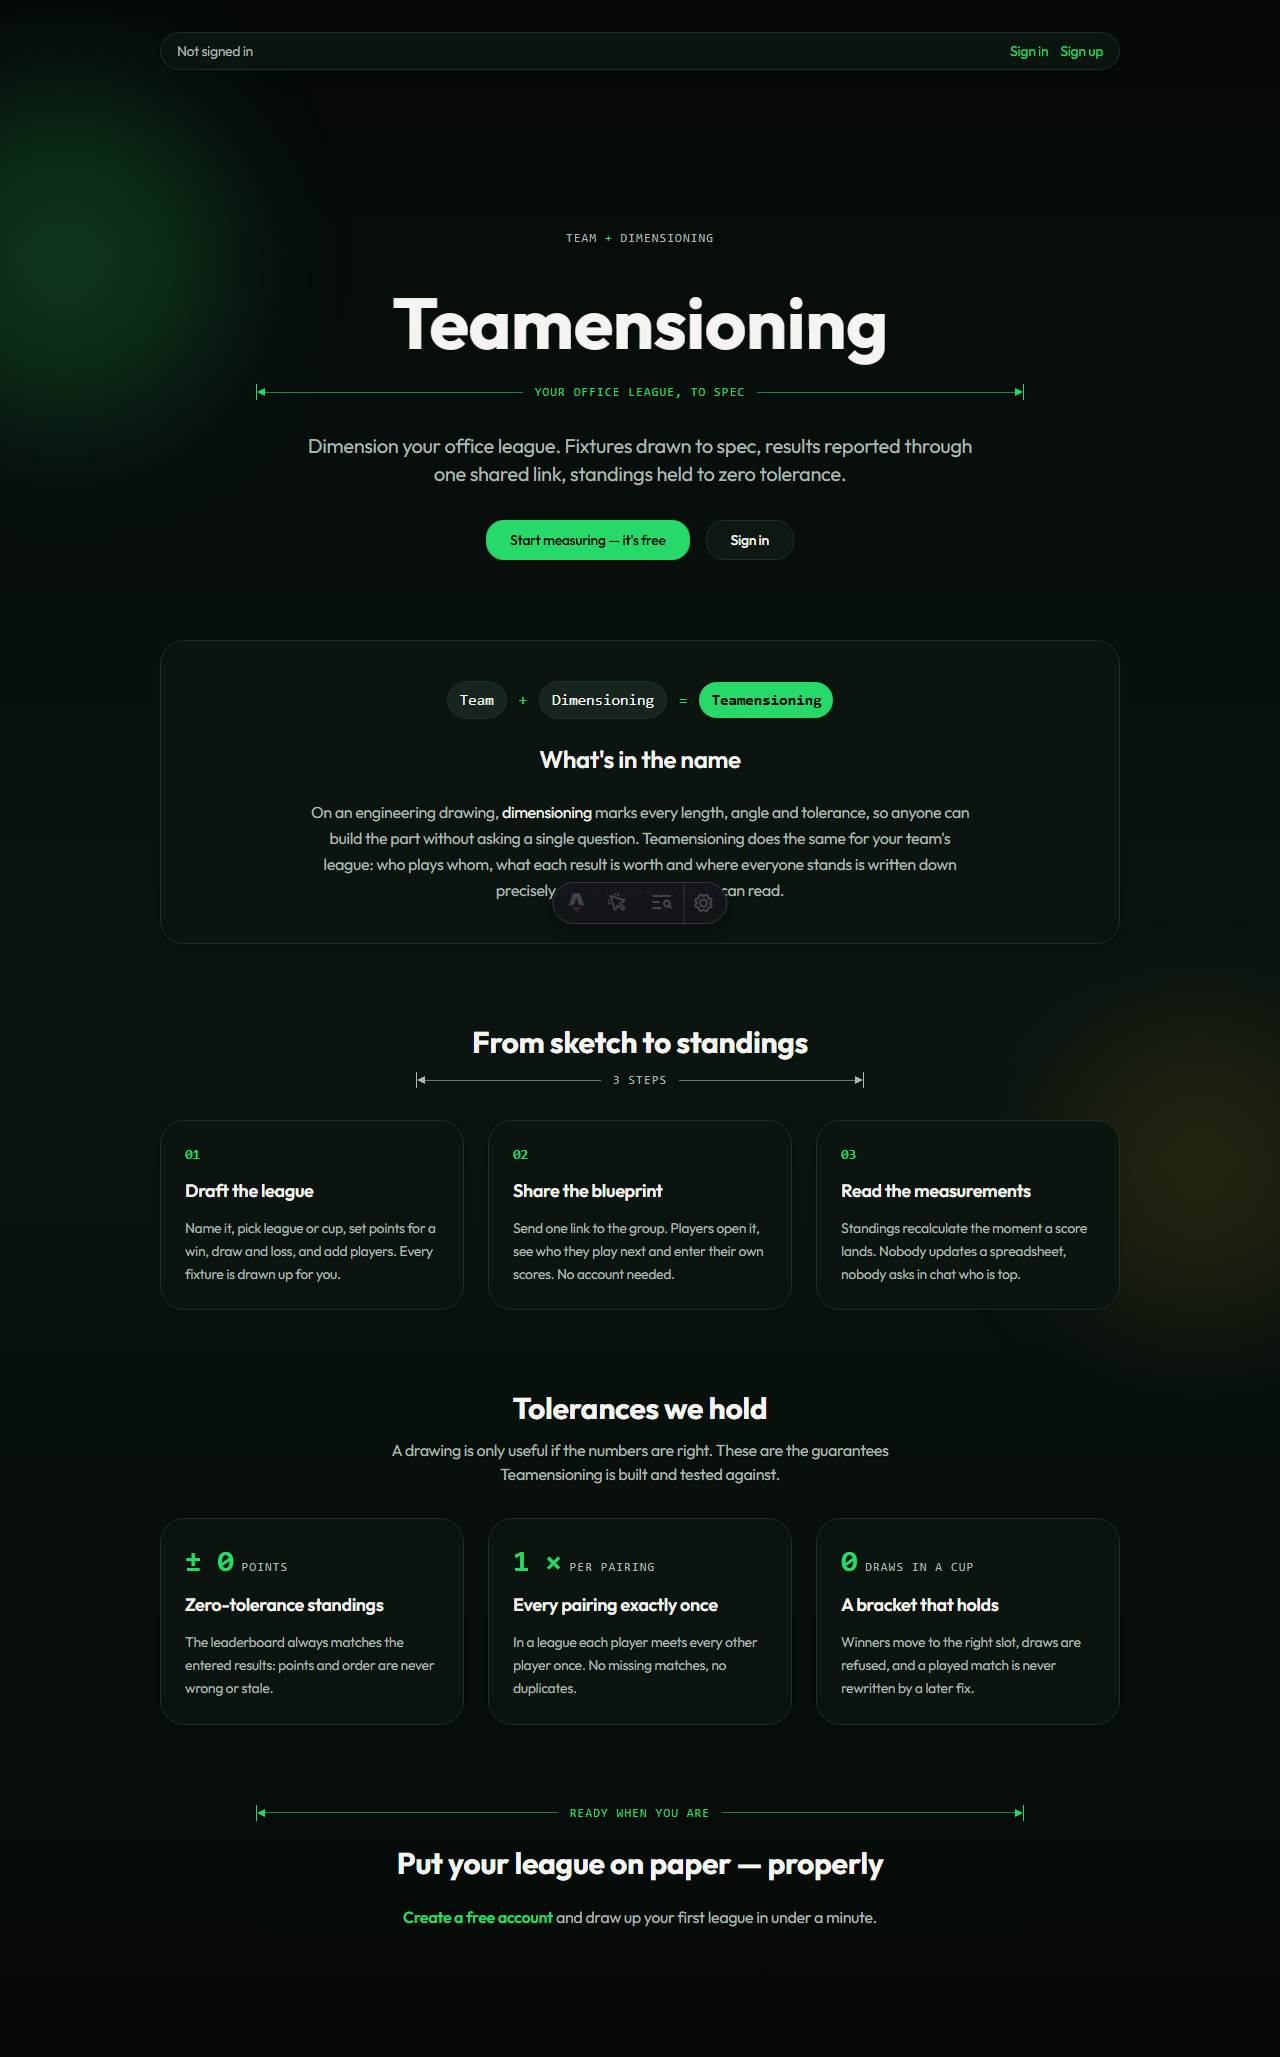
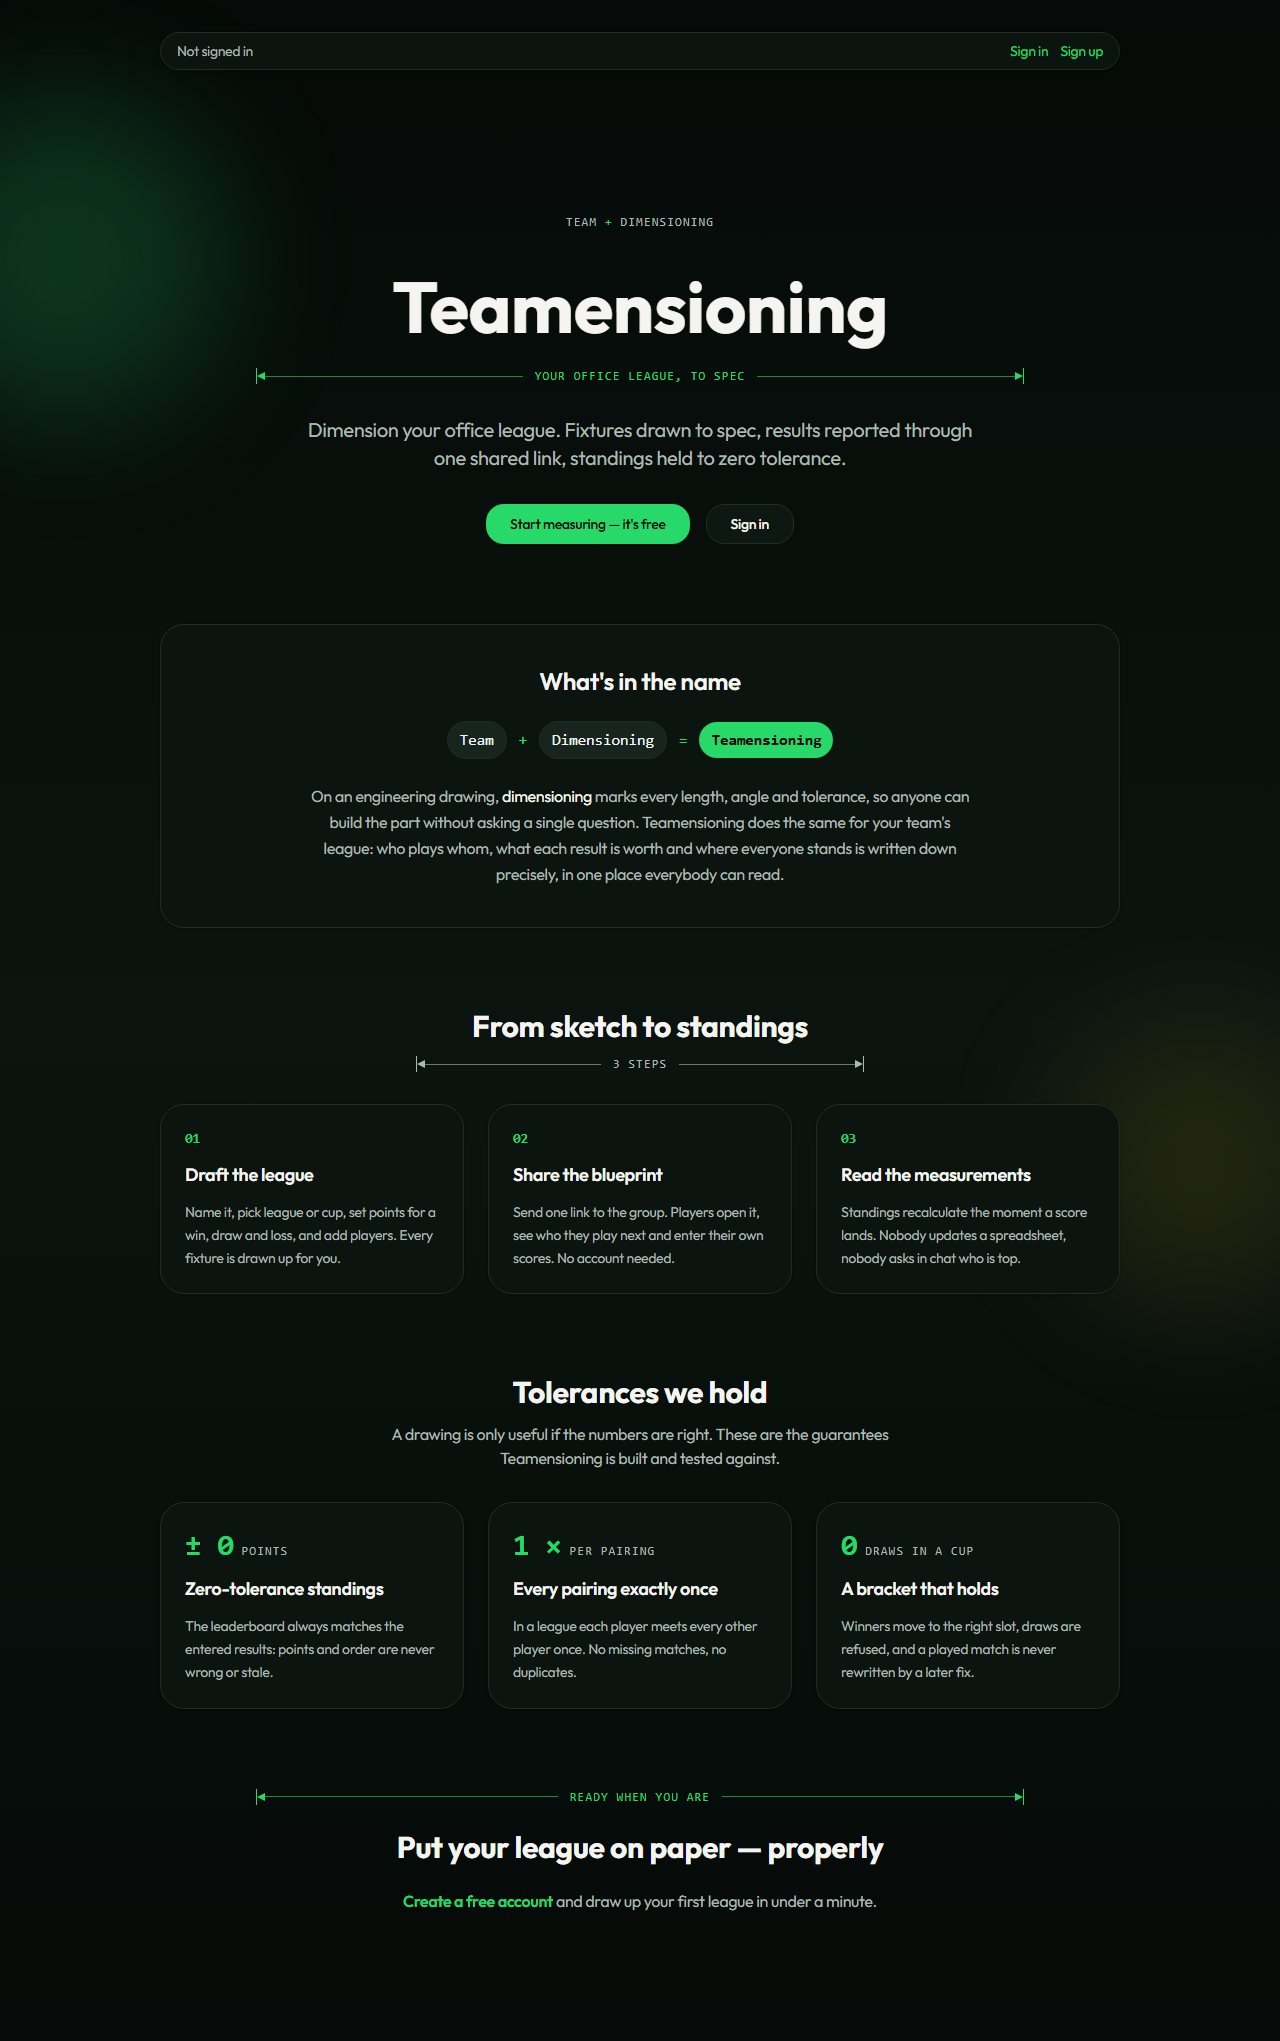
fix(home-page): address implementation review findings
Smoke asserts the landing heading (the brand is in every <title>),
guard scans text files only, name heading precedes the equation,
every section is labelled, Topbar margin removed, CTA wording matches
"Create league", AGENTS.md documents the landing-page shell exception.
Review report: context/changes/home-page/reviews/impl-review.md

diff --git a/scripts/no-starter-leftovers.test.ts b/scripts/no-starter-leftovers.test.ts
@@ -10,11 +10,13 @@ import { describe, expect, it } from "vitest";
 const ROOT = path.resolve(import.meta.dirname, "..");
 const FORBIDDEN = [/10x Astro Starter/i, /10x-astro-starter/i, /production-ready starter/i];
 const TOP_LEVEL_FILES = ["README.md", "package.json", "package-lock.json"];
+const TEXT_EXTENSIONS = new Set([".ts", ".tsx", ".astro", ".mjs", ".js", ".css", ".md", ".json"]);
 
 function filesUnder(dir: string): string[] {
   return readdirSync(dir).flatMap((entry) => {
     const full = path.join(dir, entry);
-    return statSync(full).isDirectory() ? filesUnder(full) : [full];
+    if (statSync(full).isDirectory()) return filesUnder(full);
+    return TEXT_EXTENSIONS.has(path.extname(full)) ? [full] : [];
   });
 }
 

diff --git a/context/changes/home-page/reviews/impl-review.md b/context/changes/home-page/reviews/impl-review.md
@@ -1,0 +1,90 @@
+<!-- IMPL-REVIEW-REPORT -->
+
+# Implementation Review: Branded home page and starter-leftover removal
+
+- **Plan**: context/changes/home-page/plan.md
+- **Scope**: Full plan
+- **Reviewed phases**: 1, 2
+- **Date**: 2026-11-13
+- **Verdict**: NEEDS ATTENTION (all findings fixed in triage)
+- **Findings**: 0 critical, 2 warnings, 5 observations
+
+## Verdicts
+
+| Dimension           | Verdict |
+| ------------------- | ------- |
+| Plan Adherence      | PASS    |
+| Scope Discipline    | PASS    |
+| Safety & Quality    | WARNING |
+| Architecture        | PASS    |
+| Pattern Consistency | WARNING |
+| Success Criteria    | PASS    |
+
+Minor drift noted: `index.astro` passes no title. That is intended, because the layout's no-title fallback is the product tagline. `.claude/launch.json` (local dev launch entry) is uncommitted and stays out of the change.
+
+## Findings
+
+### F1 — Smoke brand check passes on any page
+
+- **Severity**: ⚠ WARNING
+- **Impact**: 🏃 LOW — quick decision; fix is obvious and narrowly scoped
+- **Dimension**: Safety & Quality
+- **Location**: scripts/smoke.mjs:97
+- **Detail**: `body.includes("Teamensioning")` matches the `<title>` that `Layout` renders on every page, so a broken HomeView would still pass.
+- **Fix**: Assert the landing `<h1>` plus the "From sketch to standings" section heading.
+- **Decision**: FIXED. Verified that `/auth/signin` does not satisfy the new check.
+
+### F2 — Landing page departs from the documented page shell
+
+- **Severity**: ⚠ WARNING
+- **Impact**: 🏃 LOW — quick decision; fix is obvious and narrowly scoped
+- **Dimension**: Pattern Consistency
+- **Location**: src/components/home/HomeView.astro:60
+- **Detail**: AGENTS.md says every view follows the single-card shell, but the landing page has several sections.
+- **Fix**: Document a landing-page exception in the AGENTS.md UI section.
+- **Decision**: FIXED
+
+### F3 — Topbar margin stacks with the parent gap
+
+- **Severity**: OBSERVATION
+- **Impact**: 🏃 LOW — quick decision; fix is obvious and narrowly scoped
+- **Dimension**: Pattern Consistency
+- **Location**: src/components/Topbar.astro:8
+- **Fix**: Drop `mb-4`. Topbar is only used by HomeView.
+- **Decision**: FIXED
+
+### F4 — Name equation read before its heading
+
+- **Severity**: OBSERVATION
+- **Impact**: 🏃 LOW — quick decision; fix is obvious and narrowly scoped
+- **Dimension**: Safety & Quality (a11y)
+- **Location**: src/components/home/HomeView.astro:104
+- **Fix**: Move the h2 above the chips.
+- **Decision**: FIXED
+
+### F5 — Last section has no accessible name
+
+- **Severity**: OBSERVATION
+- **Impact**: 🏃 LOW — quick decision; fix is obvious and narrowly scoped
+- **Dimension**: Pattern Consistency
+- **Location**: src/components/home/HomeView.astro:169
+- **Fix**: Add `aria-labelledby` to the hero and closing sections.
+- **Decision**: FIXED
+
+### F6 — Guard decodes every file under src/
+
+- **Severity**: OBSERVATION
+- **Impact**: 🏃 LOW — quick decision; fix is obvious and narrowly scoped
+- **Dimension**: Safety & Quality
+- **Location**: scripts/no-starter-leftovers.test.ts:14
+- **Fix**: Scan text extensions only.
+- **Decision**: FIXED. The guard's protection was already proven by a deliberate-break run during implementation.
+
+### F7 — "Create a tournament" vs "Create league"
+
+- **Severity**: OBSERVATION
+- **Impact**: 🏃 LOW — quick decision; fix is obvious and narrowly scoped
+- **Dimension**: Pattern Consistency
+- **Location**: src/components/home/HomeView.astro:86,174
+- **Fix**: Use "Create league", the wording on the dashboard and the `/leagues/new` heading.
+- **Decision**: FIXED

diff --git a/AGENTS.md b/AGENTS.md
@@ -54,6 +54,7 @@ Full server-side rendering (`output: "server"` in astro.config.mjs). All pages a
 - **Components** live in `src/components/ui/`. Add missing ones with `npx shadcn@latest add <name>`; do not hand-build cards, alerts or buttons in views.
 - **No literal colours or arbitrary values in views**: no hex/rgb/hsl/oklch, no palette classes like `bg-purple-600`, no `-[12px]`. Use token classes (`bg-card`, `text-muted-foreground`, `ring-ring`).
 - **Page shell**: every view follows `src/components/dashboard/DashboardView.astro`: a `bg-cosmic flex min-h-screen items-center justify-center p-4` wrapper, a `Card` (`max-w-sm` for auth, `max-w-lg` otherwise), and a `text-foreground` heading (no gradient text). Links are `text-primary` (`text-destructive` for delete). Focus is `focus-visible:ring-ring outline-hidden focus-visible:ring-2`.
+- **Landing page exception**: `/` (`src/components/home/HomeView.astro`) is a multi-section page, not a single-card view: `bg-cosmic` wrapper, a `max-w-5xl` column of sections, `Card`s per item. It keeps tokens, `buttonVariants` and the focus pattern. The `DimensionLine` ornament is the brand motif (Team + Dimensioning); reuse it instead of new decorative SVGs.
 - **Forms**: fields use `src/components/auth/FormField.tsx` (shadcn `Input` + `Label`; `htmlFor` must equal the input `id`, E2E selects by label). Native inputs in `.astro` views copy the `inputClass` pattern in `src/components/cup/Bracket.astro`. Submit with `Button`/`buttonVariants`.
 - **Messages**: errors are `<Alert variant="destructive">` (`role="alert"`). Confirmations are `<Alert variant="success" role="status">` on the `--success` token. Render at most one alert and one status per page state: E2E looks them up page-wide.
 - **Spacing around React islands**: use `flex flex-col gap-*`, not `space-y-*`. `<astro-island>` is `display: contents`, so the margins `space-y` adds never apply to it.

diff --git a/context/changes/home-page/change.md b/context/changes/home-page/change.md
@@ -1,7 +1,7 @@
 ---
 change_id: home-page
 title: Branded Teamensioning home page and removal of Astro starter leftovers
-status: implemented
+status: impl_reviewed
 created: 2026-11-13
 updated: 2026-11-13
 archived_at: null
